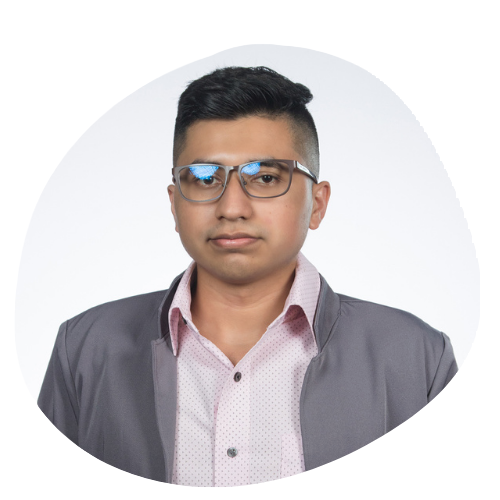
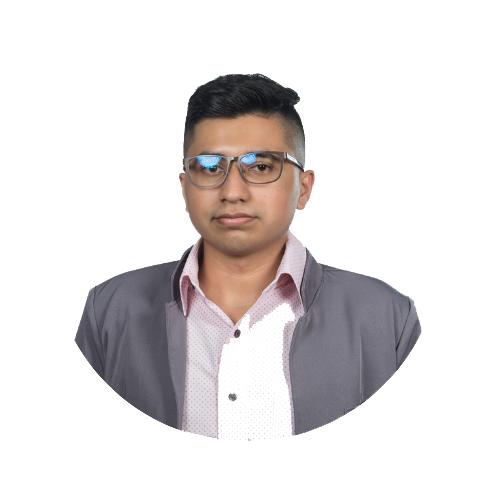
cambio de image

Changed region(s): [[0.06, 0.09, 0.93, 0.99], [0.66, 0.12, 0.72, 0.15]]

diff --git a/src/components/Banner.js b/src/components/Banner.js
@@ -72,7 +72,7 @@ const Banner = () => {
             </motion.div>
           </div>
 
-          <div className="sm:content-center hidden lg:flex flex-1 max-w-[320px] lg:max-w-[382px] mx-auto">
+          <div className="sm:content-center hidden lg:flex flex-1 max-w-[320px] lg:max-w-[482px] mx-auto">
             <img src={Image}></img>
           </div>
         </div>
